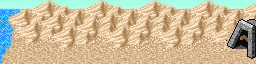
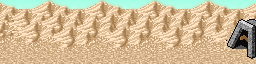
Dunes: paint the sea out of the left edge of the five Dunes scenes; map revamp plan (docs/MAPS.md)

Changed region(s): [[0.0, 0.0312, 0.0938, 1.0]]

diff --git a/docs/MAPS.md b/docs/MAPS.md
@@ -1,0 +1,131 @@
+# Maps plan: the map revamp, the coast and the Heidan
+
+Redraw the world maps and add the places they are missing: a better ground map, the Heidan as its own aboveground map, a new east coast (a river delta and a beach, home of the nagas), a creek in the Prairie, a bridge scene per zone and border scenes between zones. It also fixes the Dunes bug where the wizard walks through the sea. Asked by the author on 2026-11-19. It builds on [SCENES.md](SCENES.md) (composed scenes, three tiers, one map per tier) and the "Map revamp" idea in `docs/ideas/world.md`. Nothing is built yet.
+
+---
+
+## Decisions
+
+| Question | Decision |
+|---|---|
+| Map tiers (author, 2026-11-18) | **el_Heidan is the only aboveground zone.** Underground stays la_Mina, la_Cueva, el_Volcan; every other zone is ground |
+| Map ribbons (author, 2026-11-18) | **Not built until the map art is approved.** Their icons wait in `img/ui/ribbon/` (`icon_map_underground`, `icon_map_ground`, `icon_map_above`). When built: the ribbons switch the shown map by hand; the default is the current zone's layer |
+| Order (author, 2026-11-18) | **Ground map first; the aboveground map is a later, big step** |
+| Heidan on the ground map (author, 2026-11-19) | **The two cloud parts go; only the sacred stairs stay, with a few clouds at the top** |
+| Aboveground map (author, 2026-11-19) | **New art: two massive separate clouds, joined by the portals** |
+| Water scenes (author, 2026-11-19) | **A river delta and a beach, home of the nagas. Water only on the east side,** so the wizard's spot never moves |
+| Creek (author, 2026-11-15) | **One creek in the Prairie; the Swamp keeps its own.** The maps change to show both |
+| Bridges (author, 2026-11-15) | **One bridge scene per region** |
+| Border scenes (author, old play-test list) | **Scenes that end one area and start the next** |
+| Delta and beach (author, 2026-11-19) | **Two zones, `el_delta` and `la_playa`:** each with its own scenes, map spot and boss; the nagas live in both |
+| Dunes bug (author, 2026-11-19) | **First remove the sea from the Dunes and Desert scenes that have it on the left. Later, add a walkable shore** (the sea pushed back, wide sand where he walks) as new art |
+| River system (author, 2026-11-19) | **One river system:** the Prairie creek runs along the back of the scenes, under the Prairie bridge, and flows east into the delta, which meets the beach |
+| Nagas and bosses (author, 2026-11-19) | **The beach is the naga home** (all the nagas live there). **The beach has both bosses, the lamia and the greater naga, as a couple:** special to that zone. The delta is wilder (sea snake, giant frog) with a few nagas for diversity and ingredients; the author plans them for a future fishing profession. The guardian serpent is no longer a boss |
+| Ground map (author, 2026-11-19) | **Repaint the current layout** |
+| Heidan clouds (author, 2026-11-19) | **They stay on their own layer until the aboveground map ships,** then go in the same release |
+| Stair scenes (author, 2026-11-19) | **The ground map shows him until he steps onto a cloud**, then the aboveground map |
+| Portals (author, 2026-11-19) | **The portals are part of the wizard's path:** he walks into one and is teleported. The existing portal scenes change with the dynamic-scene big change |
+| Bridges (author, 2026-11-19) | **Where there is a river or creek: the Prairie and the Swamp each get a bridge** (supersedes "every zone"; other zones only if they gain water) |
+| Border scenes (author, 2026-11-19) | **Every pair at once** |
+| Aboveground map (author, 2026-11-19) | **Same size and style as the ground map** |
+
+*Open decisions are at the end; answers move up here.*
+
+## Reading of the brief
+
+- **"East side" means the right of the scene.** The wizard walks in from the left, stands on the left and walks out at the right edge (`walkThroughScene()`). So in every water scene the water lies on the right, the wizard's spot and his walk line stay dry, and the enemy's spot (right) can sit in the shallows. On the map the coast also lies on the east edge, so scene and map face the same way.
+- **The same rule fixes the Dunes:** the bug is sea on the left, where he walks in.
+
+## The world after the revamp
+
+| Tier | Zones | What changes |
+|---|---|---|
+| Aboveground | el_Heidan | Its own map: two big clouds and the portals between them. The stairs arrive at each cloud's edge |
+| Ground | la_Pradera, el_Bosque, el_Desierto, las_Dunas, el_Pantano, la_Tundra, el_Poblado, la_Ciudad, la_Torre, el_Castillo, el_Duenon, la_Gruta, **+ the delta, + the beach** | Repainted. New east coast; the Prairie creek; bridges marked; the Heidan clouds gone, the stairs stay |
+| Underground | la_Mina, la_Cueva, el_Volcan | Not in this plan (the map stays as it is; a style touch-up can follow the ground map) |
+
+**New zones (working names, Spanish like the rest):** `el_delta` (river delta) and `la_playa` (beach). Two zones (decided).
+
+### The coast
+
+- **Delta:** reeds, sandbanks and river arms on the right of the scene; the wizard walks a dry bank on the left. A natural end for the Prairie creek (question 3).
+- **Beach:** sand on the left, surf on the right. The walk line follows the sand to the right edge (a dry strip along the bottom or the top, the artist picks per base).
+- **Nagas** (`New NPC/nagas/`): naga, naga warrior, mage, ritualist, sharpshooter, guardian naga, greater naga, guardian serpent, lamia (64×64). They arrive by rising out of the water at the enemy's spot (the existing "rise" entrance). Which zone gets which, and the bosses, is question 4. Before use: check the tile licence and credit it like the Gervais art; `vashnia` and `aizul_new` get names of our own.
+- **Also from the art pile:** `statue_costa` (the spear-bearer) becomes the coast's statue; the sea snake and giant frog fit the delta if more enemies are wanted later.
+- **Stats:** the coast scenes feed the existing explore stats (unique and rare scenes); no new counters needed.
+
+### The Prairie creek and the bridges
+
+- **The creek runs along the back edge** of the Prairie scenes that have it, so it never crosses the walk line, **except in the bridge scene**, where it turns and crosses under a bridge. If question 3 is "yes", it flows east into the delta.
+- **One bridge scene per zone**, as a landmark scene (SCENES.md: a fixed place, the path over the bridge is protected). What each one crosses:
+
+| Zone | Bridge |
+|---|---|
+| Prairie | Stone bridge over the new creek |
+| Swamp | Plank walk over its creek |
+| Forest | Rope bridge over a ravine (matches the dream `chap.bridge`) |
+| Desert | Old stone span over a dry wadi |
+| Dunes | Driftwood bridge over a tidal channel (east side only) |
+| Tundra | Ice bridge over a frozen river |
+| Town | Wooden footbridge |
+| City | Stone bridge over a canal |
+| Castle | Drawbridge over the moat |
+| Tower | Bridge to the Tower's door |
+| Duenon | Broken bridge over a chasm |
+| Grotto | Rock arch over a pool |
+| Delta / Beach | Pier or boardwalk |
+| Mine | Rail trestle over a pit |
+| Cave | Natural arch over an underground river |
+| Volcano | Basalt bridge over lava |
+| Heidan | Cloud bridge (or the portals take this role) |
+
+Which of these are in scope is question 9.
+
+### Border scenes
+
+- **A border scene is half one zone, half the next:** the old zone on the left, the new one on the right, since he always walks left to right. It is the first scene he sees after a zone change.
+- **Going back needs the mirror** (new zone on the left). The cheapest way is to mirror the drawn scene and have the author check each mirror in the art console, redrawing only the ones that look wrong.
+- **Pairs come from the map's neighbours** (the zones' destinations). How many to draw first is question 10.
+
+### The Heidan
+
+- **Ground map:** only the stairs, with a few clouds at the top. Tapping or reading the map while on the ground shows where the stairs are.
+- **Aboveground map:** two massive clouds, separate, the portals drawn between them; each cloud shows where its stairs arrive.
+- **The stairs are three scenes** (SCENES.md). Which map shows him while he climbs is question 7.
+- **Portals:** the only way from one cloud to the other. How the crossing looks is question 8 (the mage portal strips `fx_portal_*` already exist).
+- **Map layer:** `localizarBocadillo` in `src/ui/scrolls.js` picks the map from the zone. After this plan: `el_heidan` → the aboveground map; la_Mina, la_Cueva, el_Volcan → underground; the rest, including the new coast, → ground. The marker needs a spot for each Heidan place on the new map.
+
+## Order of work
+
+Each step is playable on its own.
+
+1. **Fix the Dunes bug** (it is a bug, so it goes first). Dev answers question A below and removes the sea from the affected Dunes and Desert scenes (leaves the layer out if it is its own layer; otherwise the artist paints it out of those bases). Later, the artist draws walkable-shore versions that bring the sea back without the wizard walking through it.
+2. **Agree the new ground layout:** the artist marks the current ground map with the coast, delta, beach, creek, bridges and the cloudless stairs (a rough sketch, two or three options). The author picks one.
+3. **Ground map style:** the artist repaints one crop of the map in two or three styles (art: options first). The author picks.
+4. **Full ground map** in the chosen style. **The Heidan clouds stay on their own layer** until the aboveground map ships (question 6), so the Heidan marker always has somewhere to sit. Dev sets the map spots of new and moved places.
+5. **The coast:** the artist draws the delta and beach bases (base, floors, props, following the SCENES recipe; options on one base first). The nagas are renamed, licence-checked and dropped in the review drop. Dev adds the zone data (zones, enemies, boss, destinations, map spots), the creatures and their entrances. The musician gets the needs: waves and river ambience, naga sounds.
+6. **The Prairie creek and the bridges:** creek variants of the Prairie bases, then the bridge scenes (one zone at a time, Prairie first). Dev adds them as landmark scenes.
+7. **Border scenes:** the first pairs (question 10), then the rest.
+8. **Aboveground map:** options first, then the full map, the same style as step 3.
+9. **Heidan data:** dev splits the Heidan into its two clouds, adds the portals and their crossing, points `localizarBocadillo` at the new map for `el_heidan`, and drops the clouds layer from the ground map in the same release.
+10. **Map ribbons:** built once all three maps' art is approved (already decided).
+
+## Work by role
+
+- **Author:** answers the questions; picks the layout, the style and each set of options; checks every new scene and mirror in the art console.
+- **Artist:** the Dunes/Desert shore fix; the layout sketch and style crops; the full ground map (clouds on their own layer); the delta and beach bases; the creek variants; the bridge scenes; the border scenes; the aboveground map. Everything goes to the review drop.
+- **Dev:** hides the bad Dunes combinations if possible, then wires the fixed bases; new zones and their data; nagas as enemies; bridge and border scenes as landmark scenes; the Heidan split, portals and crossing; the map layer for `el_heidan`; map spots; the ribbons last.
+- **Musician:** coast ambience and naga sounds, once the nagas are in.
+- **Thinker (follow-ups, not in this plan):** add the coast to the STORY place groups (STORY.md, "hot / walls…") and to the FAITH rescuers table; decide if the coast gets a profession reagent (PROFESSIONS.md: the Dunes and Volcano question).
+
+## Questions for dev
+
+**A. Dunes sea.** *Answered by dev, 2026-11-19:* scenes are whole 256x64 images, not composed layers, so the sea is painted into the base. It is a thin strip at the left edge of all five Dunes scenes (img/places/las_dunas/las_dunas1..5.png). Desert scenes have no sea on the left (el_desierto1 has only a small oasis pond near the tent, away from the edge). Nothing can be hidden by combination (all five have it), so the artist paints the strip out as sand.
+
+**B. Heidan today.** How is `el_heidan` built in `src/data/zones.js`: are the two cloud parts separate places, how do the portals connect them (a move, a destination, nothing yet?), and do the three stair scenes belong to the Heidan or to the zone below? Are place `x, y` pixels on `mapa.png`?
+
+**C. A new zone.** What does a new ground zone need besides its data, backgrounds and a map spot (anything in travel, render or the stats that lists zones by hand)?
+
+## Open decisions
+
+None: all 11 are answered (see the Decisions table above). Plan sections that still say "question N" or list 17 bridges are superseded by the table.

diff --git a/docs/dev-notes.md b/docs/dev-notes.md
@@ -4,19 +4,14 @@ The one notes file: new improvements, bugs, and the author's talk with dev. Note
 author's comment (technical details only when a moment was captured). A later note on the same test replaces an
 earlier one.
 
-```
-Date: 2026-11-15 11:38
-Author's note: I would like to have one creek in the praire, and keep the one in the swam, but we need to modify the maps to include them, and additionally cbe sure to create scenes of bridges one for each region
-```
-
 ## Open items from the old play-test list (2026-11-18)
 
 [~] some new enemy attacks need some sounds (the first table is wired 2026-11-18 and waits for your ears; left: the second table's boss/hydra moves, whose files are not cut yet, and the moves still to choose; docs/SOUNDS.md)
-[] create scenes that are the end of one ad the beginon of the otherone.
-[] in desert wizard walks from left. some of those scenes have ocean on the left of the screen, we need to modify them to make a beach (walkable) or other solution.
+[] create scenes that are the end of one ad the beginon of the otherone. (planned: docs/MAPS.md, border scenes)
 
 - Own music (2026-11-18): built as code, no WAVs: Music mode in the dev console (src/dev/music.js, src/synth.js, songs/). Still open for the author: where songs play in the game, stingers only, loops, or both (musician suggests stingers first). The musician can drop songs as <name>.song.txt in the review drop.
-- Map layers (author, 2026-11-18): ribbons on the map scroll to view underground, ground and aboveground. Today localizarBocadillo (src/ui/scrolls.js) picks mapaunderground for la_Mina, la_Cueva and el_Volcan and mapa for the rest, automatically; no aboveground map or zones exist. Dev: make the ribbons switch the shown map by hand (default: the layer of the current zone) once the art is approved. Open for thinker and the author: which zones are aboveground, and the aboveground map art. Icons: icon_map_underground / icon_map_ground / icon_map_above from the artist.
-- Map layers, answered (author, 2026-11-18): el_Heidan is the only aboveground zone. Underground stays la_Mina, la_Cueva, el_Volcan; everything else is ground. The aboveground map is for later, a big step: some maps will be revamped first. Do not build the map ribbons yet (their icons stay in img/ui/ribbon/, ready).
+- Map revamp, Prairie creek, bridges, map layers and ribbons: planned in docs/MAPS.md (ribbons still wait for the map art).
 
 - Achievements (2026-11-18): libros, runas, tabernero, tocado and the eagle are now wired (tocado = 100 god touches in config.touchedAchievement). Still to do: re-run a playtest and tools/odds.py to confirm the tiers; capricorreturns and namesake are only rare by design.
+
+- Bug (author, 2026-11-19): after inactivity in the tab the game never restarts: it just sits there with an empty console. Dev's first read: either the page reloaded (src/away.js watchHidden, minSeconds 300) and the new load never fires its first event, or a freeze from loop.freezeGame (hide, or a transition's animation stalled while hidden) was never thawed, so the master clock stays stopped. Needs a repro: how long hidden, reload or not, errors in the browser console, whether the dev panel was open.

diff --git a/docs/ARCHIVE.md b/docs/ARCHIVE.md
@@ -2021,3 +2021,16 @@ Almost every faith amount comes from the wizard's max HP (`hpBase`). To compare 
 5. **Skipping shrines is the main drain** (65% of shrine events), and it's pure chance: the god can't do anything about it.
 
 ---
+
+## Dev notes moved into docs/MAPS.md (2026-11-19)
+
+```
+Date: 2026-11-15 11:38
+Author's note: I would like to have one creek in the praire, and keep the one in the swam, but we need to modify the maps to include them, and additionally cbe sure to create scenes of bridges one for each region
+```
+
+- Map layers (author, 2026-11-18): ribbons on the map scroll to view underground, ground and aboveground. Today localizarBocadillo (src/ui/scrolls.js) picks mapaunderground for la_Mina, la_Cueva and el_Volcan and mapa for the rest, automatically; no aboveground map or zones exist. Dev: make the ribbons switch the shown map by hand (default: the layer of the current zone) once the art is approved. Open for thinker and the author: which zones are aboveground, and the aboveground map art. Icons: icon_map_underground / icon_map_ground / icon_map_above from the artist.
+- Map layers, answered (author, 2026-11-18): el_Heidan is the only aboveground zone. Underground stays la_Mina, la_Cueva, el_Volcan; everything else is ground. The aboveground map is for later, a big step: some maps will be revamped first. Do not build the map ribbons yet (their icons stay in img/ui/ribbon/, ready).
+
+[] in desert wizard walks from left. some of those scenes have ocean on the left of the screen, we need to modify them to make a beach (walkable) or other solution. (planned: docs/MAPS.md, step 1; dev question A there)
+(done 2026-11-19: sea painted out of las_dunas1..5; the walkable shore is later art, docs/MAPS.md)

diff --git a/ideas.md b/ideas.md
@@ -22,6 +22,7 @@ The index of Wizard Idle v2: where the project stands, one line per idea, and th
 New idea: one line here, its text in the matching file. Nothing here is a commitment.
 
 **With a plan**
+- Map revamp: ground and aboveground maps, delta and beach with nagas, bridges, border scenes → [docs/MAPS.md](docs/MAPS.md)
 - Faith rebalance, belief levels, rescuers → [docs/FAITH.md](docs/FAITH.md)
 - Professions: reagents, items, vendors → [docs/PROFESSIONS.md](docs/PROFESSIONS.md)
 - Stats for almost everything, playtest tools → [docs/STATS.md](docs/STATS.md)
@@ -113,3 +114,4 @@ Newest first; keep the last three, cut older ones to the archive.
 - 2026-11-19 (dev): toolbar dead at start fixed: disableMainButtons no longer overwrites saved handlers on a second call; enable only restores saved ones.
 - 2026-11-19 (dev): docs cleanup: SCROLLS.md archived whole (pilot done, no spread to other scrolls); STATS, AWAY and ROADMAP trimmed to what is still open; finished parts in docs/ARCHIVE.md.
 - 2026-11-19 (dev): docs cleanup 2: SCENE_SPELLS boss effects and FAITH sections 1-2 archived; FAITH has a status paragraph. SCENES.md is untouched: no scene engine exists yet.
+- 2026-11-19 (dev): step 1 of docs/MAPS.md done: the sea strip at the left edge of las_dunas1..5 is painted out (the artist's files, approved by the author). New bug noted in dev-notes: the tab never restarts after inactivity (empty console), needs a repro.

diff --git a/docs/MAP.md b/docs/MAP.md
@@ -105,7 +105,7 @@ Code asks by plain name; only src/media.js knows folders. A name that fits no ru
 - ideas/: idea text by topic (story.md, world.md, creatures.md, extras.md); ideas.md lists them one line each. Open only the topic you work on.
 - dev-notes.md: the one notes file for the author (bugs, improvements, talk with dev). Role inboxes: art-notes.md, sound-notes.md (saved from the dev tools box), thinker-notes.md (design notes moved there).
 - STATS.md: stats and playtest tools plan. FAITH.md: belief, faith, revive plan. PROFESSIONS.md: reagents, recipes, vendors plan.
-- SCENES.md: composing scenes from parts. SCENE_SPELLS.md: full-scene spell animations and boss effects.
+- SCENES.md: composing scenes from parts. MAPS.md: map revamp plan (ground and aboveground maps, the coast, creek, bridges, border scenes). SCENE_SPELLS.md: full-scene spell animations and boss effects.
 - STORY.md: the story script, every chapter scroll and console beat. Its review page is in artefacts_tests/ (README there); after changing STORY.md run `python artefacts_tests/build_story_scrolls.py`.
 - SLEEP.md: sleep, dreams, nightmares. ERASURE.md: what follows the god's final win and erasure.
 - SOUNDS.md: sounds pending (approved, to cut, to choose). playtests/: results of simulation runs.

diff --git a/CHANGELOG.md b/CHANGELOG.md
@@ -1,6 +1,7 @@
 # Changelog
 
 ## Unreleased
+- Dunes: the thin strip of sea at the left edge of all five Dunes scenes, where the wizard walks in, is painted out as sand, so he no longer walks through the water. A walkable shore will come back with the map revamp.
 n- Toolbar buttons could stay dead after the game opened, with only the ? working at some point: opening a second scroll right after another (the chapter scrolls) saved a blocked button as its handler. Blocking the toolbar now keeps the real handlers.
 
 - Scroll ribbon bookmarks are new and a bit smaller: a crimson cloth banner with gold trim, a folded flap and a swallowtail, hanging over the roll at the top of the scroll, with ten new 9x9 icons (trophy for all achievements, skull, tombstone, beast, pouch, chart and the three map layers). Opening the bestiary no longer leaves a half-drawn icon.
